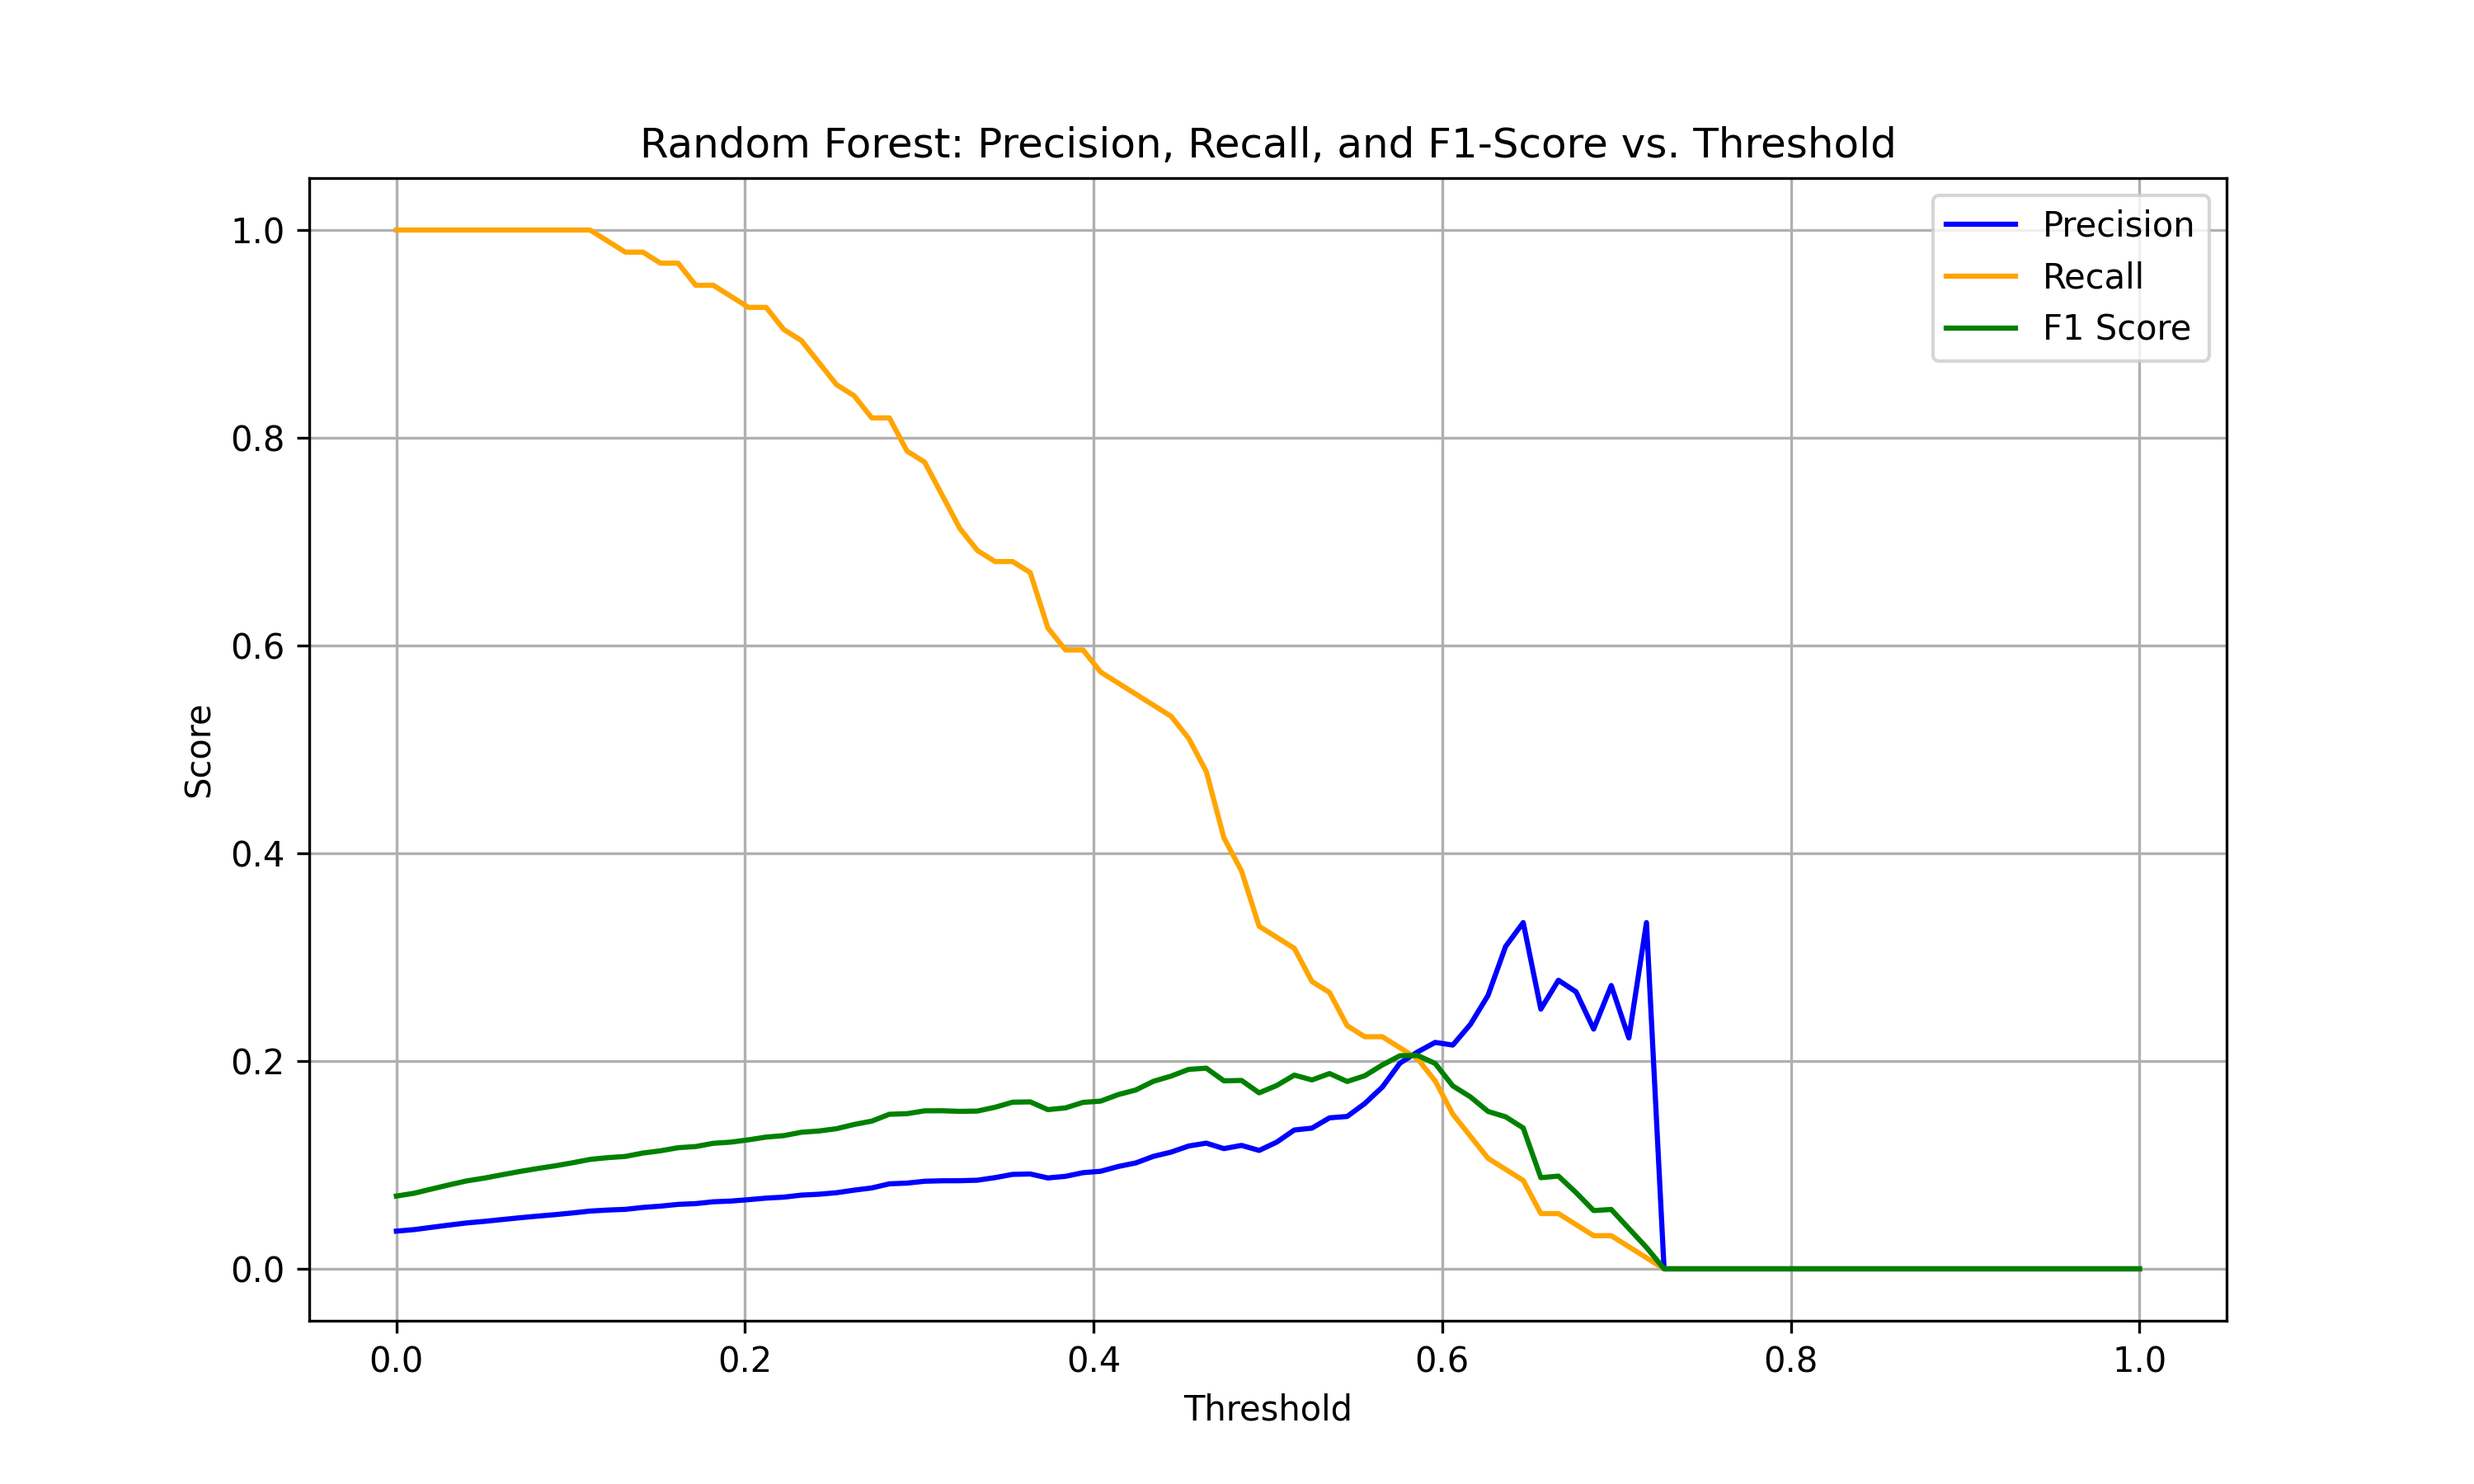
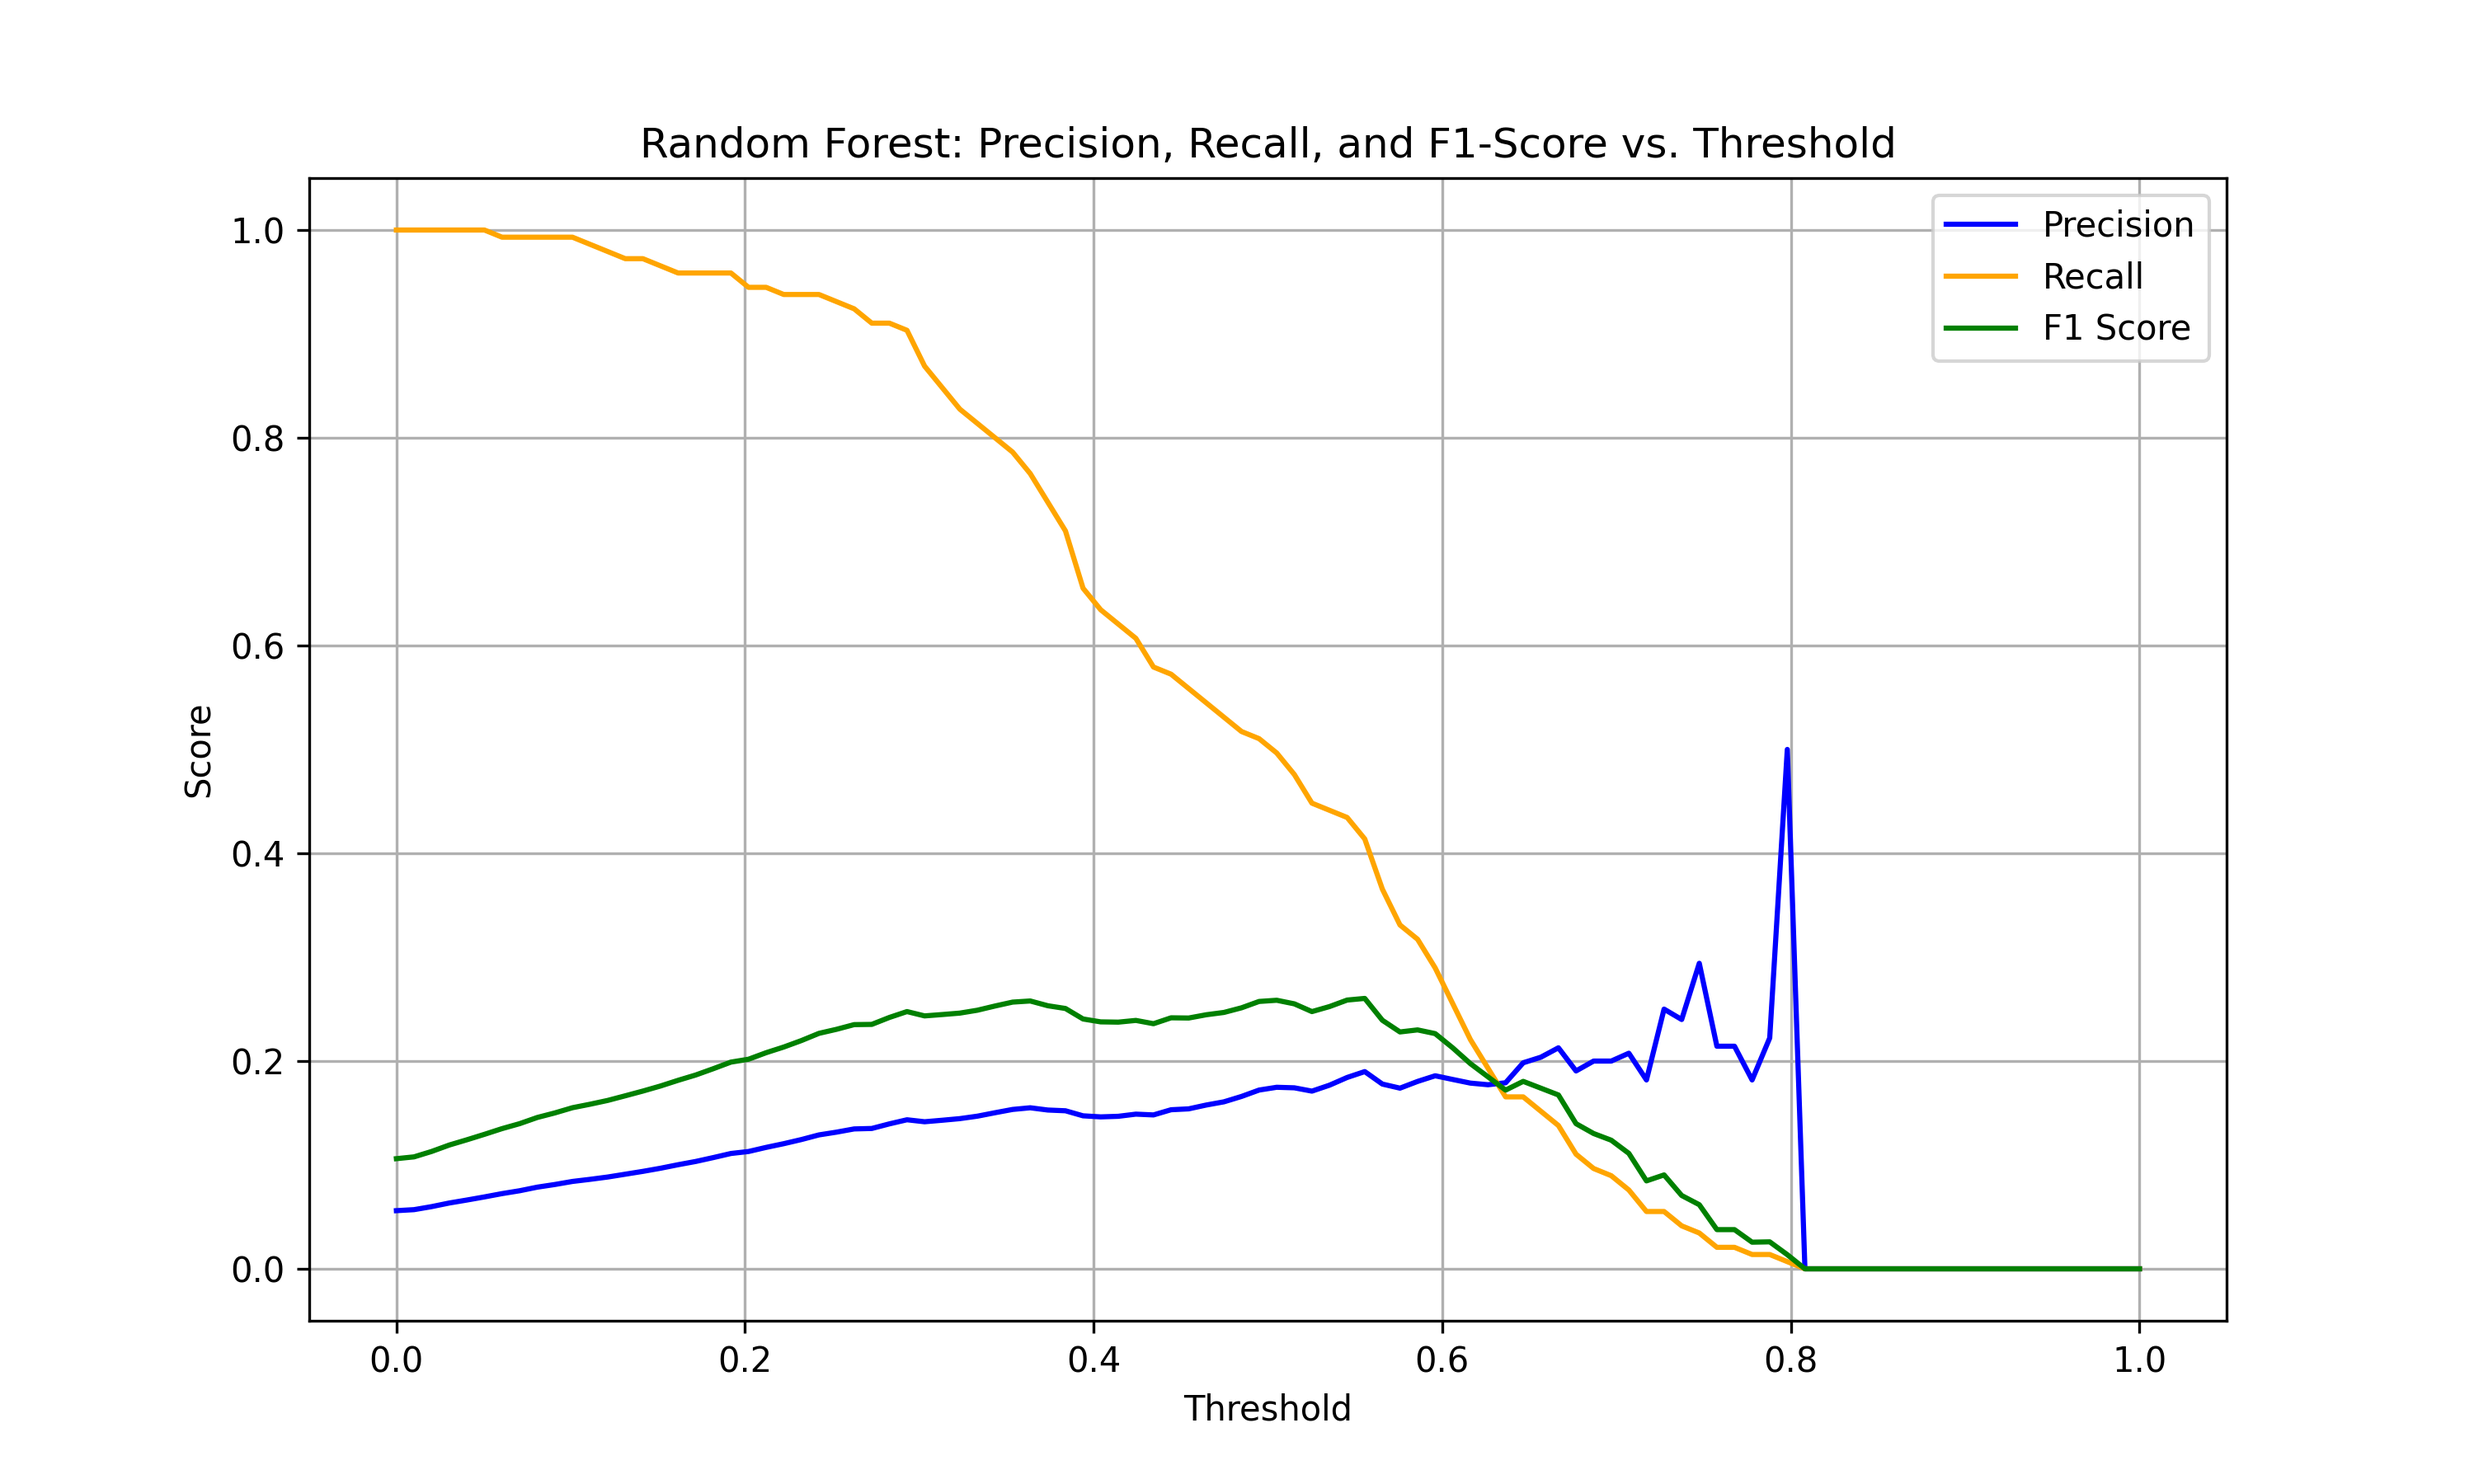
fresh figs

diff --git a/ml_models.py b/ml_models.py
@@ -31,7 +31,7 @@ def plot_easy_sample_distribution(y_proba, y_true, easy_positive_threshold=0.8, 
     plt.legend()
     plt.grid(alpha=0.3)
     plt.tight_layout()
-    plt.show()
+    # plt.show()
 
 # Example usage with your `run_log_reg` function
 
@@ -57,17 +57,17 @@ def run_log_reg(X_resampled_bone, y_resampled_bone, X_test_bone, y_test_bone,ver
     print(f"Precision: {precision:.4f}, Recall: {recall:.4f}, Accuracy: {accuracy:.4f}, AUROC: {auroc:.4f}, F1: {f1:.4f}")
 
     # Generate plots
-    # precisions, recalls, f1s, thresholds = get_metrics(y_proba_lr, y_test_bone)
-    # prf_thresh(thresholds, precisions, recalls, f1s,
-    #            title="Logistic Regression: Precision, Recall, and F1-Score vs. Threshold",
-    #            name='log_reg_prf_thresh.png')
+    precisions, recalls, f1s, thresholds = get_metrics(y_proba_lr, y_test_bone)
+    prf_thresh(thresholds, precisions, recalls, f1s,
+               title="Logistic Regression: Precision, Recall, and F1-Score vs. Threshold",
+               name='log_reg_prf_thresh.png')
 
-    # auroc_cm(y_test_bone, y_proba_lr, verbose=verbose,
-    #          auroc_title="ROC Curve with Optimal Threshold (Youden's Index)",
-    #          auroc_name='lr_auroc.png',
-    #          cm_title='Logistic Regression: Confusion Matrix at Optimal Threshold',
-    #          cm_name='lr_cm.png',
-    #          model='log reg')
+    auroc_cm(y_test_bone, y_proba_lr, verbose=verbose,
+             auroc_title="ROC Curve with Optimal Threshold (Youden's Index)",
+             auroc_name='lr_auroc.png',
+             cm_title='Logistic Regression: Confusion Matrix at Optimal Threshold',
+             cm_name='lr_cm.png',
+             model='log reg')
 
     # plot_easy_sample_distribution(y_proba_lr, y_test_bone, easy_positive_threshold=0.8, easy_negative_threshold=0.2)
 
@@ -102,17 +102,17 @@ def run_lasso_log_reg(X_resampled_bone, y_resampled_bone, X_test_bone, y_test_bo
     print(f"Precision: {precision:.4f}, Recall: {recall:.4f}, Accuracy: {accuracy:.4f}, AUROC: {auroc:.4f}, F1: {f1:.4f}")
 
     # # Generate plots
-    # precisions, recalls, f1s, thresholds = get_metrics(y_proba_lasso, y_test_bone)
-    # prf_thresh(thresholds, precisions, recalls, f1s,
-    #            title="LASSO Logistic Regression: Precision, Recall, and F1-Score vs. Threshold",
-    #            name='lasso_log_reg_prf_thresh.png')
+    precisions, recalls, f1s, thresholds = get_metrics(y_proba_lasso, y_test_bone)
+    prf_thresh(thresholds, precisions, recalls, f1s,
+               title="LASSO Logistic Regression: Precision, Recall, and F1-Score vs. Threshold",
+               name='lasso_log_reg_prf_thresh.png')
 
-    # auroc_cm(y_test_bone, y_proba_lasso, verbose=verbose,
-    #          auroc_title="ROC Curve with Optimal Threshold (Youden's Index)",
-    #          auroc_name='lasso_lr_auroc.png',
-    #          cm_title='LASSO Logistic Regression: Confusion Matrix at Optimal Threshold',
-    #          cm_name='lasso_lr_cm.png',
-    #          model='lasso log reg')
+    auroc_cm(y_test_bone, y_proba_lasso, verbose=verbose,
+             auroc_title="ROC Curve with Optimal Threshold (Youden's Index)",
+             auroc_name='lasso_lr_auroc.png',
+             cm_title='LASSO Logistic Regression: Confusion Matrix at Optimal Threshold',
+             cm_name='lasso_lr_cm.png',
+             model='lasso log reg')
 
     imps, tops = feat_imp(None, X_resampled_bone, n=20,
              title="Top 10 Feature Importance (LASSO Logistic Regression)",
@@ -145,17 +145,17 @@ def run_xgb(X_resampled_bone, y_resampled_bone, X_test_bone, y_test_bone, y_trai
     print(f"Precision: {precision:.4f}, Recall: {recall:.4f}, Accuracy: {accuracy:.4f}, AUROC: {auroc:.4f}, F1: {f1:.4f}")
 
     # # Generate plots
-    # precisions, recalls, f1s, thresholds = get_metrics(y_proba_bone, y_test_bone)
-    # prf_thresh(thresholds, precisions, recalls, f1s,
-    #            title="XGBoost: Precision, Recall, and F1-Score vs. Threshold",
-    #            name='xgboost_prf_thresh.png')
+    precisions, recalls, f1s, thresholds = get_metrics(y_proba_bone, y_test_bone)
+    prf_thresh(thresholds, precisions, recalls, f1s,
+               title="XGBoost: Precision, Recall, and F1-Score vs. Threshold",
+               name='xgboost_prf_thresh.png')
 
-    # auroc_cm(y_test_bone, y_proba_bone, verbose=verbose,
-    #          auroc_title="ROC Curve with Optimal Threshold (Youden's Index)",
-    #          auroc_name='xg_auroc.png',
-    #          cm_title='XGBoost: Confusion Matrix at Optimal Threshold',
-    #          cm_name='xg_cm.png',
-            #  model='xgboost')
+    auroc_cm(y_test_bone, y_proba_bone, verbose=verbose,
+             auroc_title="ROC Curve with Optimal Threshold (Youden's Index)",
+             auroc_name='xg_auroc.png',
+             cm_title='XGBoost: Confusion Matrix at Optimal Threshold',
+             cm_name='xg_cm.png',
+             model='xgboost')
 
     feature_importances = xgb_model_bone.feature_importances_
     imps, tops = feat_imp(feature_importances, X_resampled_bone, n=20,
@@ -186,17 +186,17 @@ def run_rf(X_resampled_bone, y_resampled_bone, X_test_bone, y_test_bone,verbose=
     print(f"Precision: {precision:.4f}, Recall: {recall:.4f}, Accuracy: {accuracy:.4f}, AUROC: {auroc:.4f}, F1: {f1:.4f}")
 
     # # Generate plots
-    # precisions, recalls, f1s, thresholds = get_metrics(y_proba_rf, y_test_bone)
-    # prf_thresh(thresholds, precisions, recalls, f1s,
-    #            title="Random Forest: Precision, Recall, and F1-Score vs. Threshold",
-    #            name='randfor_prf_thresh.png')
+    precisions, recalls, f1s, thresholds = get_metrics(y_proba_rf, y_test_bone)
+    prf_thresh(thresholds, precisions, recalls, f1s,
+               title="Random Forest: Precision, Recall, and F1-Score vs. Threshold",
+               name='randfor_prf_thresh.png')
 
-    # auroc_cm(y_test_bone, y_proba_rf, verbose=verbose,
-    #          auroc_title="ROC Curve with Optimal Threshold (Youden's Index)",
-    #          auroc_name='rf_auroc.png',
-    #          cm_title='Random Forest: Confusion Matrix at Optimal Threshold',
-    #          cm_name='rf_cm.png',
-    #          model='random forest')
+    auroc_cm(y_test_bone, y_proba_rf, verbose=verbose,
+             auroc_title="ROC Curve with Optimal Threshold (Youden's Index)",
+             auroc_name='rf_auroc.png',
+             cm_title='Random Forest: Confusion Matrix at Optimal Threshold',
+             cm_name='rf_cm.png',
+             model='random forest')
 
     feature_importances_rf = rf_model.feature_importances_
     imps, tops = feat_imp(feature_importances_rf, X_resampled_bone, n=20,

diff --git a/main.py b/main.py
@@ -19,7 +19,7 @@ def main():
     X_train_bone, X_test_bone, y_train_bone, \
         y_test_bone,X_resampled_bone, y_resampled_bone = split_data(data, drop_real_world = False, drop_columns_experiment=False, drop_missing=False, bone=False)
 
-    # # corr_matrix(data)
+    corr_matrix(data)
     y_proba_bone, xg_imps,y_pred_xgb = run_xgb(X_resampled_bone,y_resampled_bone,X_test_bone,y_test_bone,y_train_bone)
     y_proba_lr, lr_imps,y_pred_lr   = run_log_reg(X_resampled_bone,y_resampled_bone,X_test_bone,y_test_bone)
     # y_proba_lasso, lasso_imps = run_lasso_log_reg(X_resampled_bone, y_resampled_bone, X_test_bone, y_test_bone,verbose=False)
